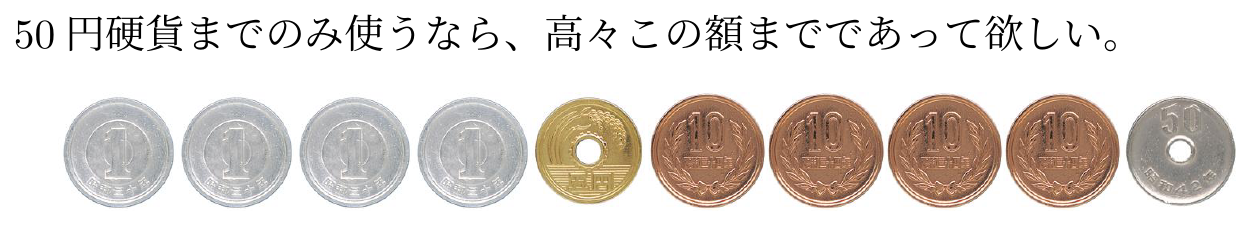
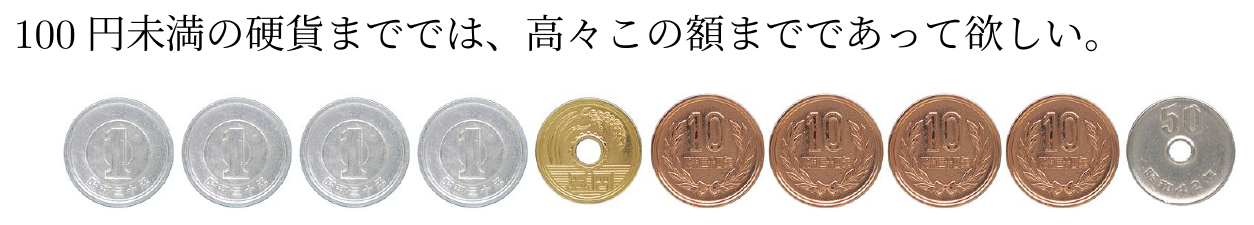
update

Changed region(s): [[0.0, 0.0622, 0.9019, 0.2489]]

diff --git a/figs/fig1.tex b/figs/fig1.tex
@@ -4,7 +4,7 @@
 
 \begin{document}
 \begin{tikzpicture}
-    \node[anchor=west] at (-1,1) {50円硬貨までのみ使うなら、高々この額までであって欲しい。};
+    \node[anchor=west] at (-1,1) {100円未満の硬貨まででは、高々この額までであって欲しい。};
 
     \node at (0,0) {\includegraphics[width=1cm]{../imgs/yen/1.jpg}};
     \node at (1,0) {\includegraphics[width=1cm]{../imgs/yen/1.jpg}};
